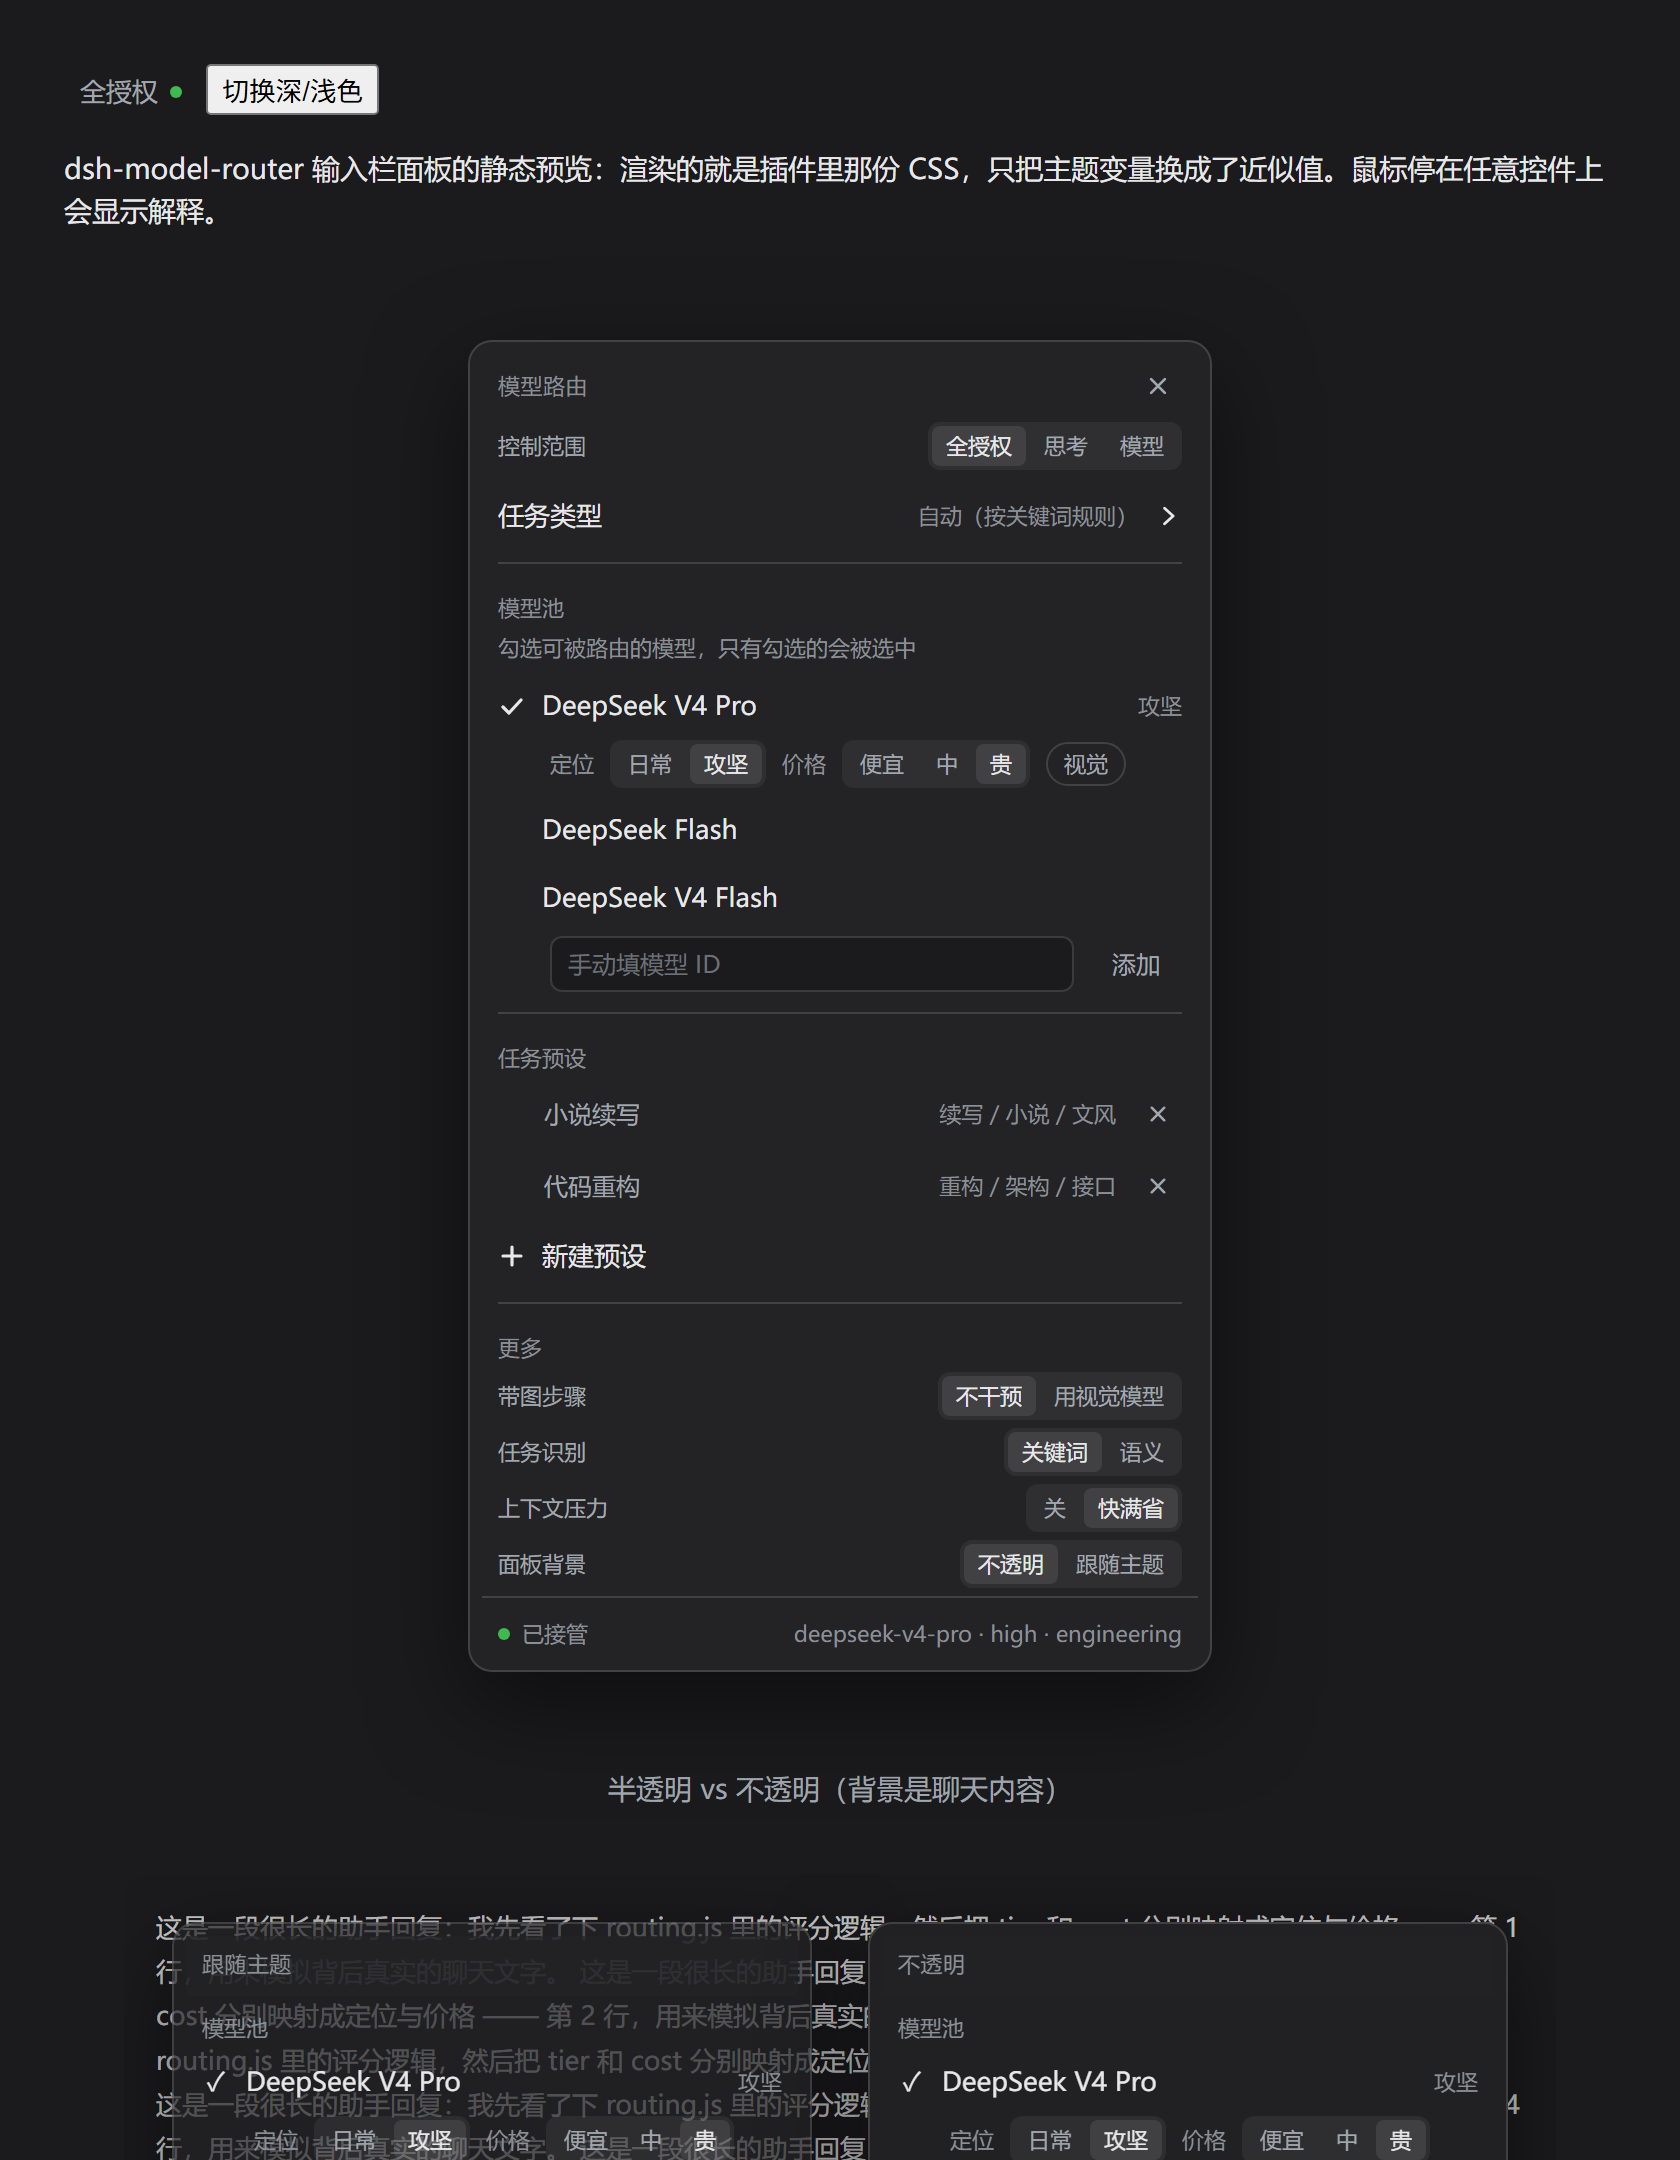
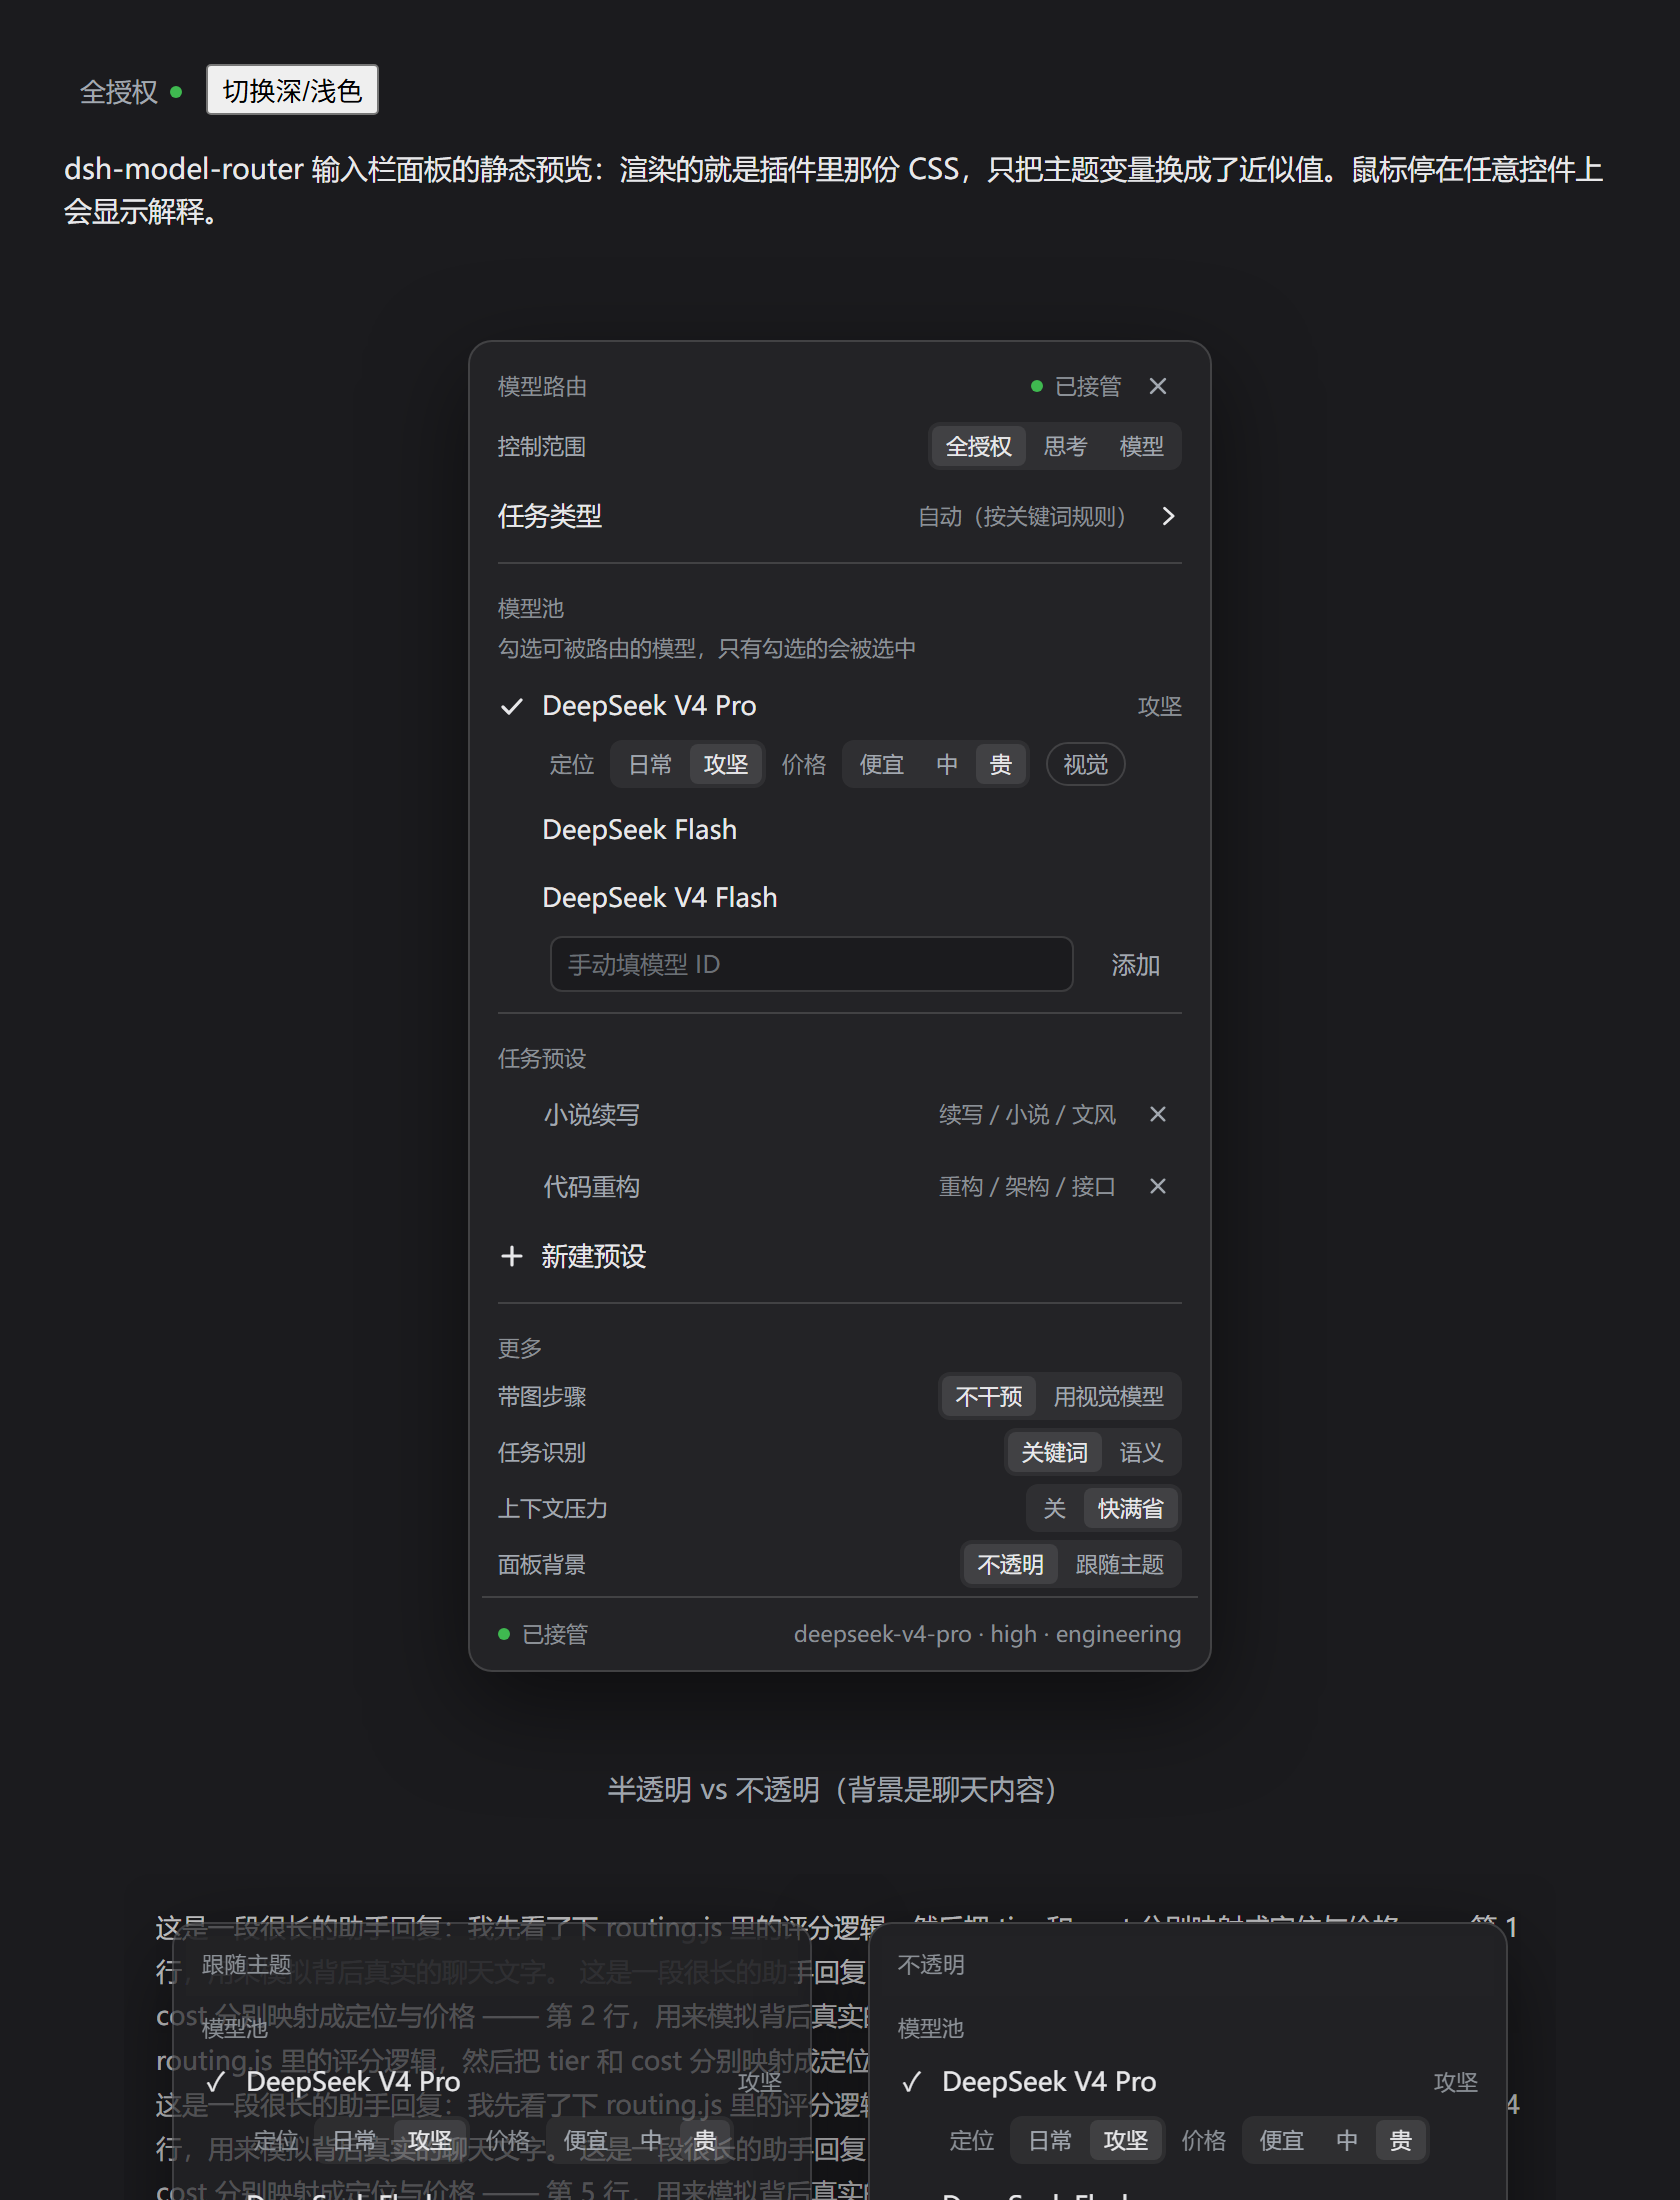
feat(ui): explain the status dot (0.6.8)
- the trigger's green/amber dot now has a tooltip: green = the router is controlling,
  amber = it stood down because you picked a model by hand
- the panel header repeats the dot with its state in words
- 77 tests

diff --git a/client/client.js b/client/client.js
@@ -27,6 +27,8 @@ window.__ModuleLoader__.load({
 			zh: {
 				title: "模型路由", scope: "控制范围", full: "全授权", effort: "思考", model: "模型",
 				engaged: "已接管", yielded: "已让位，你手动选过", resume: "重新接管",
+				engagedHint: "绿点 = 正在自动接管：按需要换模型、调思考等级；点开可调整",
+				yieldedHint: "黄点 = 已让位：你手动选过模型，插件暂时不插手；点开可点「重新接管」",
 				task: "任务类型", auto: "自动（按关键词规则）", pool: "模型池", poolHint: "只有勾选的模型会被选中",
 				tier: "定位", cheap: "日常", strong: "攻坚", cost: "价格", vision: "视觉",
 				tierHint: "日常 = 平时就用它；攻坚 = 只在硬活/工程活时优先（hard +15 分、工程 +8 分）",
@@ -59,6 +61,8 @@ window.__ModuleLoader__.load({
 			en: {
 				title: "Model router", scope: "Scope", full: "Full", effort: "Effort", model: "Model",
 				engaged: "Controlling", yielded: "Yielded to your manual pick", resume: "Resume",
+				engagedHint: "green dot = the router is controlling: it changes the model / effort as needed; click to adjust",
+				yieldedHint: "amber dot = stood down: you picked a model by hand, so the router holds back; click to resume",
 				task: "Task type", auto: "Auto (keyword rules)", pool: "Model pool", poolHint: "only ticked models are selectable",
 				tier: "Role", cheap: "daily", strong: "heavy", cost: "Price", vision: "vision",
 				tierHint: "daily = use it all the time; heavy = prefer it for hard/engineering steps (hard +15, engineering +8)",
@@ -407,7 +411,7 @@ window.__ModuleLoader__.load({
 			const parts = [
 				h("button", {
 					key: "trigger", type: "button", className: "mr-trigger", ref: triggerRef,
-					title: t.title, onClick: openPanel,
+					title: t.title + " · " + (yielded ? t.yieldedHint : t.engagedHint), onClick: openPanel,
 				},
 					h("span", null, t[mode] || mode),
 					h("span", { className: "mr-dot", "data-yielded": String(yielded) })
@@ -501,6 +505,8 @@ window.__ModuleLoader__.load({
 				} else {
 					body.push(h("div", { key: "head", className: "mr-head" },
 						h("span", { className: "mr-name" }, t.title),
+						h("span", { className: "mr-dot", "data-yielded": String(yielded), title: yielded ? t.yieldedHint : t.engagedHint }),
+						h("span", { title: yielded ? t.yieldedHint : t.engagedHint }, yielded ? t.yielded : t.engaged),
 						h("button", { type: "button", className: "mr-btn", style: { marginLeft: "auto" }, onClick: () => setOpen(false) }, h(Icon, { name: "close", size: 12 }))
 					))
 					if (yielded) {

diff --git a/docs/ui-preview.html b/docs/ui-preview.html
@@ -82,7 +82,7 @@ body{margin:0;min-height:100vh;display:flex;flex-direction:column;align-items:ce
   <p class="caption">dsh-model-router 输入栏面板的静态预览：渲染的就是插件里那份 CSS，只把主题变量换成了近似值。鼠标停在任意控件上会显示解释。</p>
 </div>
 <div class="mr-panel">
-  <div class="mr-head"><span class="mr-name">模型路由</span><button class="mr-btn mr-icon-btn"><svg width="12" height="12" viewBox="0 0 14 14" fill="none" stroke="currentColor" stroke-width="1.6" stroke-linecap="round" stroke-linejoin="round"><path d="M3 3l8 8M11 3l-8 8"/></svg></button></div>
+  <div class="mr-head"><span class="mr-name">模型路由</span><span class="mr-dot" data-yielded="false" title="绿点 = 正在自动接管：按需要换模型、调思考等级"></span><span title="绿点 = 正在自动接管">已接管</span><button class="mr-btn mr-icon-btn"><svg width="12" height="12" viewBox="0 0 14 14" fill="none" stroke="currentColor" stroke-width="1.6" stroke-linecap="round" stroke-linejoin="round"><path d="M3 3l8 8M11 3l-8 8"/></svg></button></div>
   <div class="mr-line" style="padding:0 8px 6px"><span style="flex:1" title="插件能改什么">控制范围</span><div class="mr-seg" title="全授权 = 模型 + 思考等级；思考 = 只调思考等级；模型 = 只调模型"><button data-active="true" title="模型和思考等级都交给插件">全授权</button><button title="只让插件调思考等级，模型不动">思考</button><button title="只让插件换模型，思考等级不动">模型</button></div></div>
   <button class="mr-row" title="自动 = 按关键词规则判断；也可以强制指定一个类型"><span class="mr-name">任务类型</span><span class="mr-sub">自动（按关键词规则）</span><span class="mr-check"><svg width="12" height="12" viewBox="0 0 14 14" fill="none" stroke="currentColor" stroke-width="1.6" stroke-linecap="round" stroke-linejoin="round"><path d="M5 2.5l5 4.5-5 4.5"/></svg></span></button>
   <div class="mr-div"></div>

diff --git a/PUBLISHING.md b/PUBLISHING.md
@@ -72,7 +72,7 @@ model seat.
 
 ## npm
 
-Published: **`@neptune810/dsh-model-router@0.6.7`** (2026-09-29). Earlier releases: 0.6.6, 0.6.5, 0.6.4, 0.6.3, 0.6.2, 0.6.1, 0.6.0, 0.5.0, 0.4.0, 0.3.0 (2026-09-15).
+Published: **`@neptune810/dsh-model-router@0.6.8`** (2026-09-29). Earlier releases: 0.6.7, 0.6.6, 0.6.5, 0.6.4, 0.6.3, 0.6.2, 0.6.1, 0.6.0, 0.5.0, 0.4.0, 0.3.0 (2026-09-15).
 Listing does not depend on it —
 the market installs from the repository — but a registry package gives storefronts a download count
 and lets people install without the `github:` spec.

diff --git a/CHANGELOG.md b/CHANGELOG.md
@@ -1,5 +1,16 @@
 # Changelog
 
+## 0.6.8
+
+**The status dot explains itself.**
+
+- The trigger's green/amber dot now carries a tooltip: green = the router is
+  controlling (it changes model / effort as needed), amber = it stood down because you
+  picked a model by hand (click to resume).
+- The panel header repeats the dot with its state in words, so the colour never has to
+  be guessed from a screenshot.
+- 77 tests.
+
 ## 0.6.7
 
 **The package metadata finally describes what the plugin does now.**
